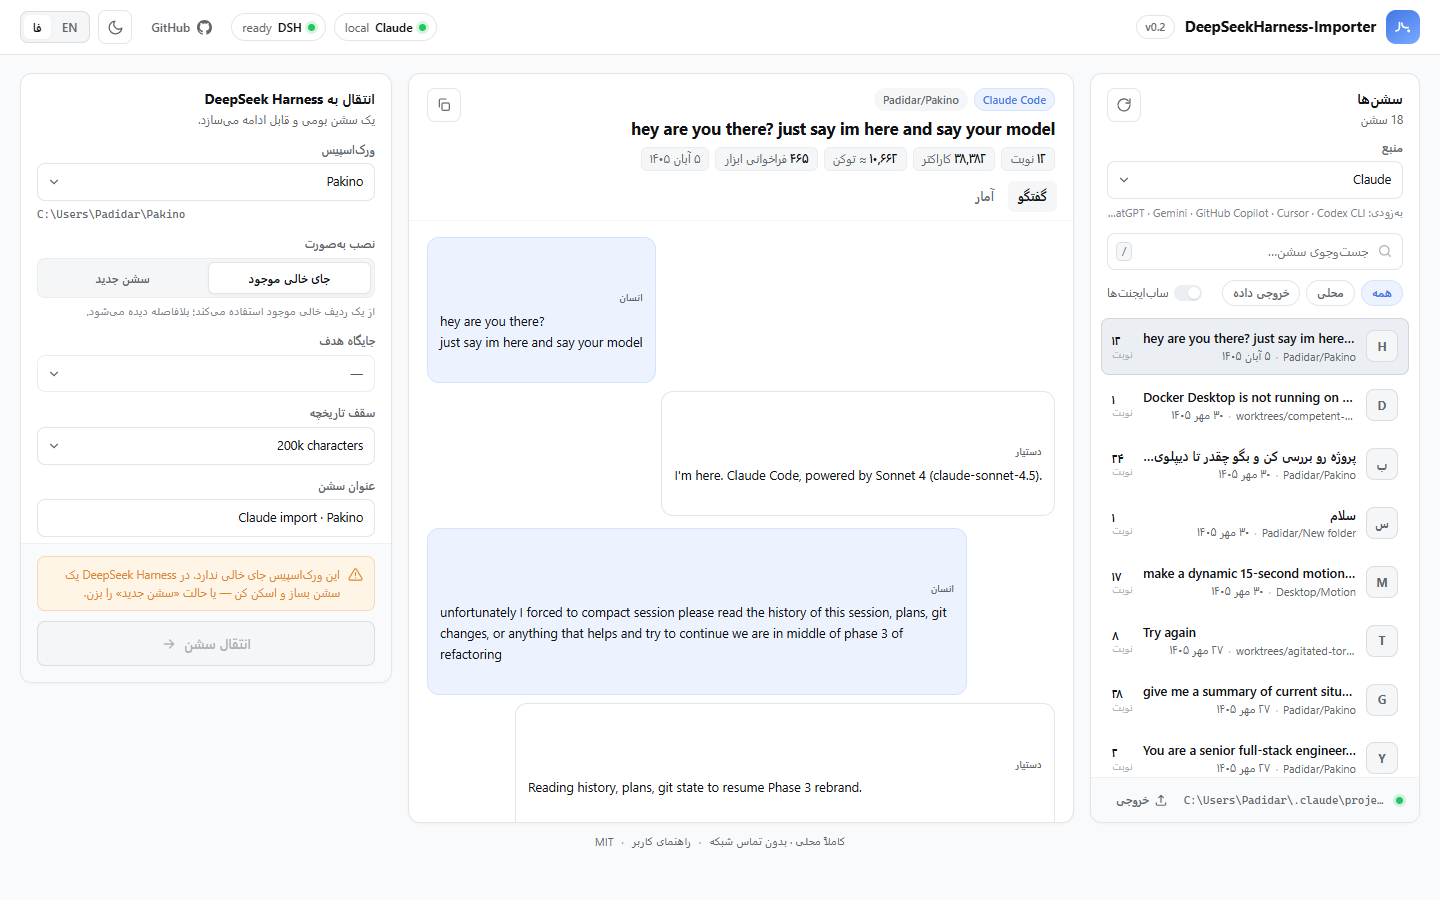
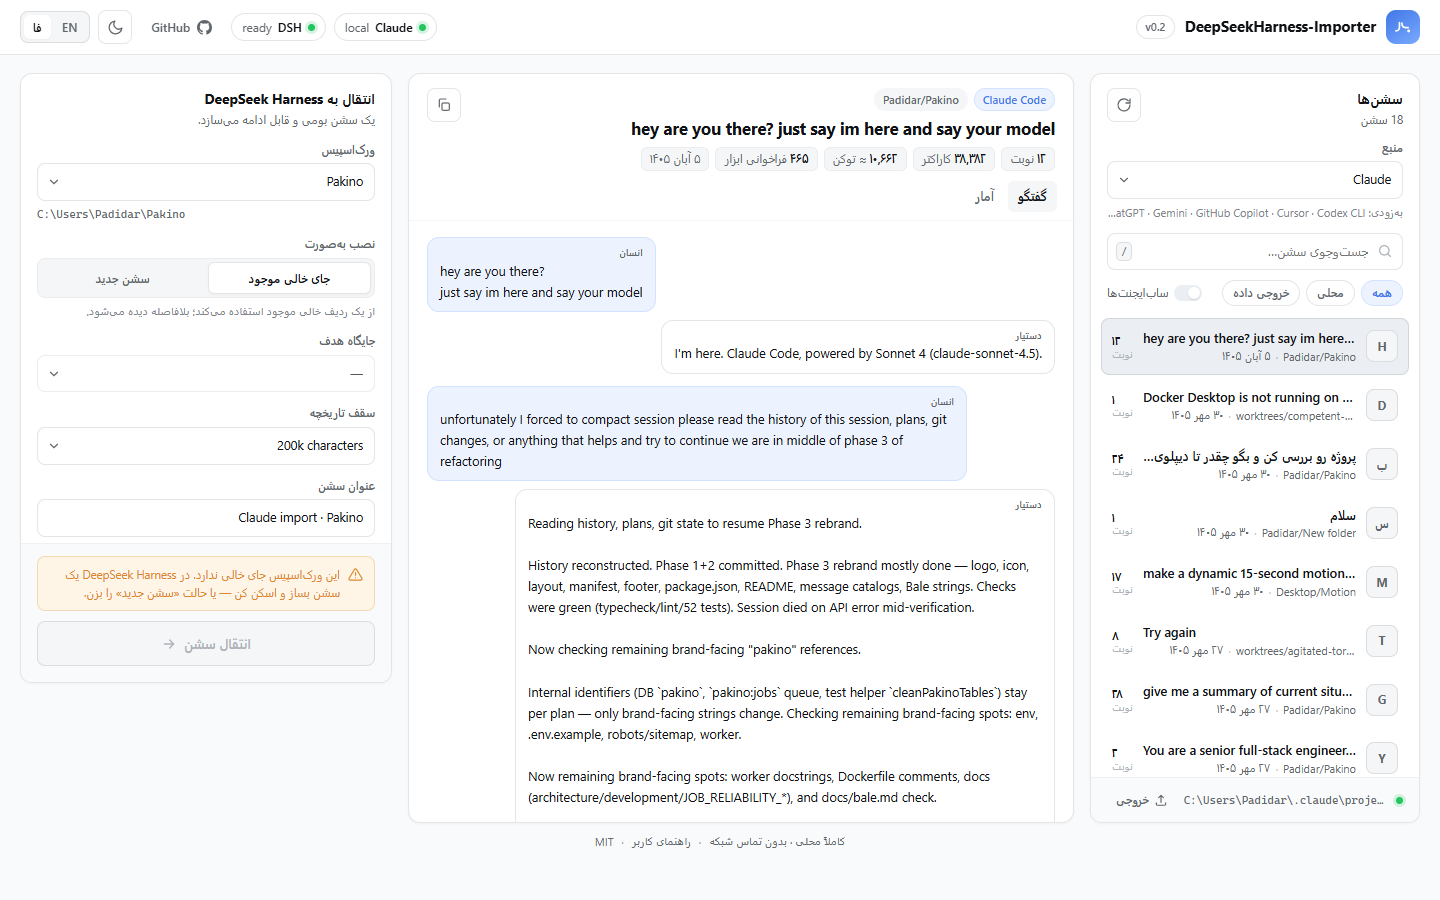
fix: drop the blank space at the start of each message bubble
Trim preview text and stop injecting template whitespace into a pre-wrap
bubble, so the role label sits directly above the message.

Changed region(s): [[0.3125, 0.6222, 0.7188, 0.9022], [0.3125, 0.28, 0.7188, 0.5289], [0.3438, 0.4978, 0.7188, 0.5911]]

diff --git a/src/web/app.js b/src/web/app.js
@@ -359,14 +359,11 @@ function renderDetail() {
   ].join('');
 
   const turns = state.detail.preview?.turns || [];
+  const tight = (text) => String(text ?? '').replace(/^[\s\u200b]+/, '').replace(/[\s\u200b]+$/, '');
   $('#chat').innerHTML = turns.map((turn) => `
     <div class="turn">
-      <div class="bubble bubble-user" dir="auto">
-        <div class="bubble-role">${t('roleUser')}</div>${escapeHtml(turn.user)}
-      </div>
-      <div class="bubble bubble-assistant" dir="auto">
-        <div class="bubble-role">${t('roleAssistant')}</div>${escapeHtml(turn.assistant)}
-      </div>
+      <div class="bubble bubble-user" dir="auto"><div class="bubble-role">${t('roleUser')}</div>${escapeHtml(tight(turn.user))}</div>
+      <div class="bubble bubble-assistant" dir="auto"><div class="bubble-role">${t('roleAssistant')}</div>${escapeHtml(tight(turn.assistant))}</div>
     </div>`).join('') + `<div class="chat-foot">${
       (state.detail.preview?.totalTurns || 0) > turns.length
         ? t('moreTurns', state.detail.preview.totalTurns - turns.length)

diff --git a/src/web/styles.css b/src/web/styles.css
@@ -574,7 +574,8 @@ html[dir="rtl"] .switch input:checked + .switch-track .switch-thumb { transform:
 .bubble-role {
   font-size: 10px; font-weight: 700; letter-spacing: 0.06em; text-transform: uppercase;
   color: var(--muted-foreground);
-  margin-bottom: 4px;
+  line-height: 1.15;
+  margin: 0 0 1px;
 }
 html[dir="rtl"] .bubble-role { letter-spacing: normal; }
 

diff --git a/CHANGELOG.md b/CHANGELOG.md
@@ -35,6 +35,9 @@ All notable changes to this project are documented here. The format follows
 
 ### Fixed
 
+- Message bubbles no longer render a leading or trailing blank line: the preview
+  text is trimmed and the HTML template no longer injects whitespace into a
+  `pre-wrap` bubble.
 - Session rows truncate correctly inside the sidebar.
 - Persian/Arabic text keeps its direction inside an otherwise LTR interface.
 - Binary-safe UTF-8 handling for the web assets (no BOM, no mojibake).
